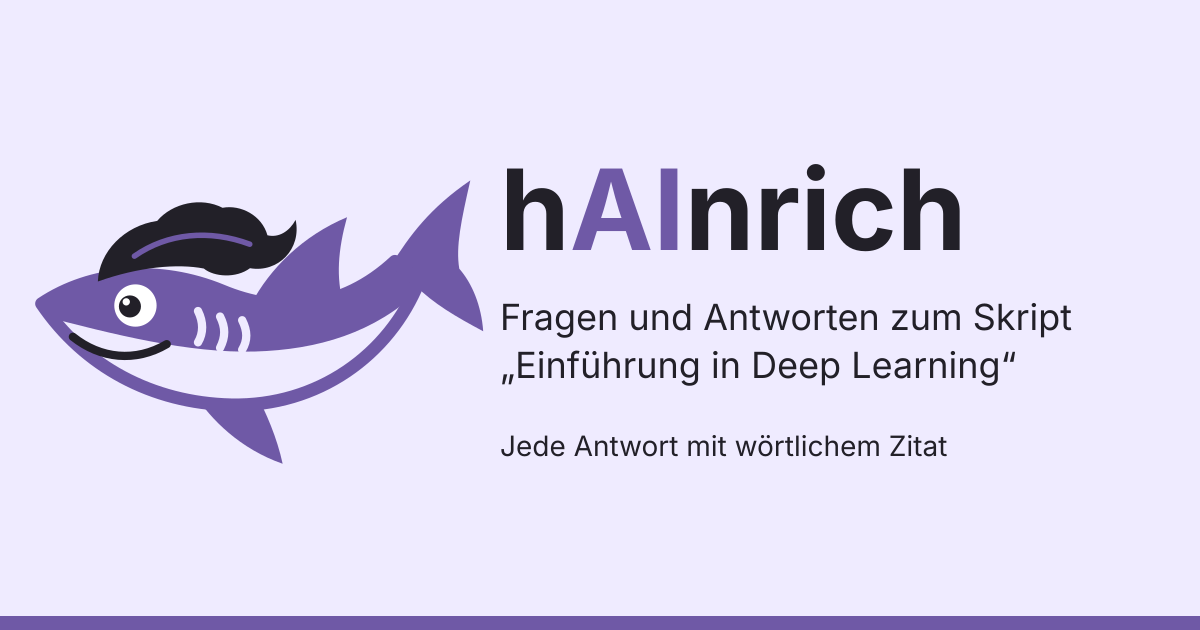
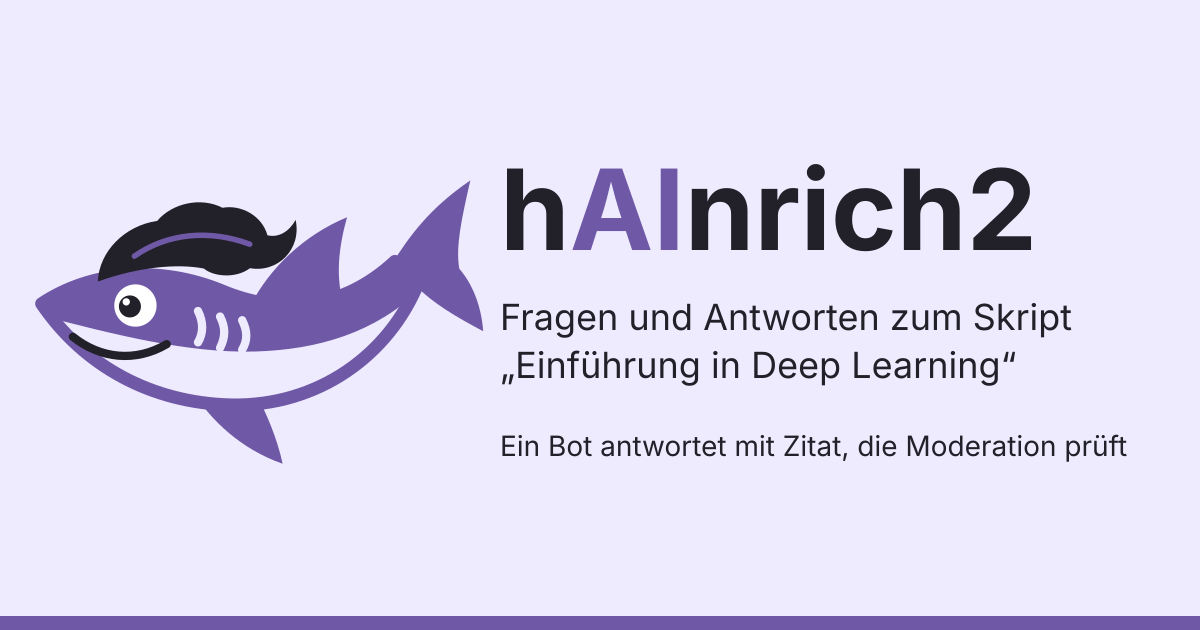
Strukturierte Daten und neue Vorschaukarte
Die Startseite trägt WebSite, Unterforen und Fragen tragen den sichtbaren Pfad als BreadcrumbList. `<` ist im JSON maskiert, weil ein `</script>` im Text den Block sonst beendet. QAPage bleibt weg: Google verlangt, dass Nutzer antworten können.

Die Vorschaukarte sagte „Jede Antwort mit wörtlichem Zitat“ und hAInrich. Antworten der Moderation haben kein Zitat, und die Site heißt hAInrich2. Die Beschreibung der Startseite ist ebenso vorsichtiger.

Die Testfragen bleiben, und die Vorschau endet noch nicht: Erst bekommen die Studierenden den Link (Konrad, 2026-11-06).

Changed region(s): [[0.4008, 0.6937, 0.9558, 0.7238], [0.8017, 0.2714, 0.8633, 0.4222]]

diff --git a/lib/site.js b/lib/site.js
@@ -10,12 +10,13 @@ import { quoteUrl } from './segment.js';
 export { esc };
 
 /** muss zur Datei passen, das prüft der Bau; erzeugt von tools/render_brand.py */
-export const OG_CARD = { file: 'og-card.png', width: 1200, height: 630, alt: 'Das Logo von hAInrich, ein fröhlicher Hai mit einem Toupet im Stil von Heinrich Heine. Daneben: Fragen und Antworten zum Skript „Einführung in Deep Learning“.' };
+export const OG_CARD = { file: 'og-card.png', width: 1200, height: 630, alt: 'Das Logo von hAInrich2, ein fröhlicher Hai mit einem Toupet im Stil von Heinrich Heine. Daneben: Fragen und Antworten zum Skript „Einführung in Deep Learning“.' };
 const NICHTS_GEFUNDEN = 'Dazu habe ich im Skript nichts gefunden.';
 const BADGES = { ungeprüft: 'ungeprüft', geprüft: 'geprüft', kein_beleg: 'kein Beleg', entwurf: 'Entwurf' };
 const reviewed = question => question.antworten.some(a => a.status === 'geprüft');
+const BETREIBER = { name: 'Konrad Völkel', url: 'https://www.konradvoelkel.com' };
 /** Wer für die Moderation unterschreibt. Solange es nur einen gibt, steht das hier und nicht am Konto (Plan D22) */
-export const MODERATION = { name: 'Konrad Völkel', bild: 'moderation-konrad.jpg', url: 'https://www.konradvoelkel.com' };
+export const MODERATION = { ...BETREIBER, bild: 'moderation-konrad.jpg' };
 /** Länge, ab der die Trefferliste abschneidet, grob */
 const TITEL_LAENGE = 65;
 const BESCHREIBUNG_LAENGE = 155;
@@ -72,7 +73,16 @@ export function publicQuestion(seed, row, passages, day) {
   return { id: seed.id, text: seed.frage, kapitel, herkunft: 'beispiel', tag: day, antworten };
 }
 
-function shell({ site, root, path, title, description, robots = 'noindex', body, script = null, claim = true }) {
+/** Für die Suche. `<` ist maskiert, sonst beendet ein `</script>` im Text den Block. Ausgeführt wird nichts, die CSP lässt das durch */
+const jsonLd = data => `<script type="application/ld+json">${JSON.stringify({ '@context': 'https://schema.org', ...data }).replaceAll('<', '\\u003c')}</script>\n`;
+
+/** Der sichtbare Pfad. Der letzte Schritt ist die Seite selbst, er braucht keine Adresse */
+const crumbs = (site, ...steps) => ({
+  '@type': 'BreadcrumbList',
+  itemListElement: [['', 'Forum'], ...steps].map(([href, name], i) => ({ '@type': 'ListItem', position: i + 1, name, ...(href === null ? {} : { item: `${site.origin}${site.base}${href}` }) })),
+});
+
+function shell({ site, root, path, title, description, robots = 'noindex', body, script = null, claim = true, daten = null }) {
   const url = `${site.origin}${site.base}${path}`;
   const banner = site.vorschau ? '<p class="vorschau">Vorschau, nicht veröffentlicht.</p>' : '';
   return `<!doctype html>
@@ -102,7 +112,7 @@ function shell({ site, root, path, title, description, robots = 'noindex', body,
 <link rel="apple-touch-icon" href="${root}apple-touch-icon.png">
 <link rel="stylesheet" href="${root}katex/katex.min.css">
 <link rel="stylesheet" href="${root}style.css">
-${script ? `<script type="module" src="${root}${script}"></script>\n` : ''}</head>
+${script ? `<script type="module" src="${root}${script}"></script>\n` : ''}${daten ? jsonLd(daten) : ''}</head>
 <body>
 ${banner}<header class="kopf"><a class="marke" href="${root || './'}"><img src="${root}logo.svg" alt="" width="36" height="36">hAInrich2</a>${claim ? `<span>${CLAIM}</span>` : ''}</header>
 <main>
@@ -173,6 +183,7 @@ export function questionPage(question, site) {
     description: questionDescription(question),
     robots: reviewed(question) ? 'index,follow' : 'noindex',
     script: site.stimmen ? 'stimmen.js' : null,
+    daten: crumbs(site, [`f/${forum.slug}/`, forum.titel], [null, question.kapitel]),
     body: `${trail(root, [`../${forum.slug}/`, forum.titel], [null, question.kapitel])}
 <article class="beitrag frage" id="b1"><aside class="autor"><span class="avatar" aria-hidden="true">?</span><strong>${question.herkunft === 'beispiel' ? 'Frage' : 'Anonymer Nutzer'}</strong>${voteBox(question, site)}</aside><div class="inhalt"><header><span class="meta">${dateOf(question.tag)}</span>${question.herkunft === 'beispiel' ? '<span class="badge">Beispielfrage</span>' : ''}<a class="nummer" href="#b1">#1</a></header><h1>${renderQuestion(question.text)}</h1><p class="meta">${esc(question.kapitel)}</p></div></article>
 ${question.antworten.map((a, i) => answerCard(a, i + 2, { root, tag: question.tag })).join('\n') || none}`,
@@ -189,15 +200,17 @@ export function indexPage(questions, site) {
     const threads = threadsOf(forum, questions);
     return `<tr><th scope="row"><a href="f/${forum.slug}/">${esc(forum.titel)}</a><p>${esc(forum.beschreibung)}</p></th><td data-label="Themen">${threads.length}</td><td data-label="Geprüft">${countReviewed(threads)}</td></tr>`;
   }).join('\n');
+  const description = 'Fragen zum Skript „Einführung in Deep Learning“. Antworten des Bots tragen das wörtliche Zitat aus dem Skript mit Link, die Moderation prüft sie.';
   return shell({
     site,
     root: '',
     path: '',
     title: 'hAInrich2: Fragen zum Skript „Einführung in Deep Learning“',
-    description: 'Fragen zum Skript „Einführung in Deep Learning“. Jede Antwort des Bots trägt das wörtliche Zitat aus dem Skript mit Link.',
+    description,
     robots: questions.some(reviewed) ? 'index,follow' : 'noindex',
     script: 'app.js',
     claim: false,
+    daten: { '@type': 'WebSite', name: 'hAInrich2', url: `${site.origin}${site.base}`, inLanguage: 'de', description, publisher: { '@type': 'Person', ...BETREIBER } },
     body: `<section class="einstieg"><h1>${CLAIM}</h1>
 <p>Die meisten Antworten schreibt ein Sprachmodell, belegt mit wörtlichen Zitaten aus dem Skript, und die Moderation prüft sie. <a href="ueber/">Mehr über die Idee</a></p></section>
 <section class="suche" id="suche" hidden>
@@ -227,6 +240,7 @@ export function forumPage(forum, questions, site) {
     description: `${forum.beschreibung} Fragen zum Skript „Einführung in Deep Learning“.`,
     robots: threads.some(reviewed) ? 'index,follow' : 'noindex',
     script: site.stimmen ? 'stimmen.js' : null,
+    daten: crumbs(site, [null, forum.titel]),
     body: `${trail(root, [null, forum.titel])}
 <section>${listTitle(site, root, forum.titel)}<p class="meta">${esc(forum.beschreibung)}</p>
 <table class="liste themen">

diff --git a/tools/render_brand.py b/tools/render_brand.py
@@ -102,21 +102,21 @@ def fit(text, font_file, size, limit):
 
 
 def card():
-    lines = [('hAI', 'nrich', 112, TEXT_X, 250), ('Fragen und Antworten zum Skript', None, 36, TEXT_X, 330),
-             ('„Einführung in Deep Learning“', None, 36, TEXT_X, 378), ('Jede Antwort mit wörtlichem Zitat', None, 28, TEXT_X, 456)]
+    lines = [('hAI', 'nrich2', 112, TEXT_X, 250), ('Fragen und Antworten zum Skript', None, 36, TEXT_X, 330),
+             ('„Einführung in Deep Learning“', None, 36, TEXT_X, 378), ('Ein Bot antwortet mit Zitat, die Moderation prüft', None, 28, TEXT_X, 456)]
     limit = TEXT_RIGHT - TEXT_X
-    fit('hAInrich', FONT_BOLD, 112, limit)
+    fit('hAInrich2', FONT_BOLD, 112, limit)
     for text, _, size, _, _ in lines[1:]:
         fit(text, FONT_REGULAR, size, limit)
     style = 'font-family:Inter'
     title = (f'<text x="{TEXT_X}" y="250" style="{style};font-weight:700;font-size:112px" fill="{TINTE}">'
-             f'h<tspan fill="{MARKE}">AI</tspan>nrich</text>')
+             f'h<tspan fill="{MARKE}">AI</tspan>nrich2</text>')
     rows = '\n'.join(f'<text x="{x}" y="{y}" style="{style};font-size:{size}px" fill="{TINTE}">{text}</text>' for text, _, size, x, y in lines[1:])
     return svg(f'''<rect width="{CARD_W}" height="{CARD_H}" fill="{FLAECHE}"/>
 <rect x="0" y="{CARD_H - 14}" width="{CARD_W}" height="14" fill="{MARKE}"/>
 <g transform="translate(14 70) scale(.92)">{mark()}</g>
 {title}
-{rows}''', CARD_W, CARD_H, 'hAInrich: Fragen und Antworten zum Skript')
+{rows}''', CARD_W, CARD_H, 'hAInrich2: Fragen und Antworten zum Skript')
 
 
 def wordmark():

diff --git a/research/2026-11-06-seo-audit/README.md b/research/2026-11-06-seo-audit/README.md
@@ -5,8 +5,8 @@ _Stand 2026-11-06, gemessen am ausgespielten Stand `2d085af`. Skripte: `crawl.py
 
 **Ergebnis:** Die Site ist heute für Suchmaschinen unsichtbar, und das ist gewollt: `noindex` auf allen 41 Seiten, leere Sitemap.
 Für das Ende der Vorschau ist sie technisch gut vorbereitet. Schwach sind Titel, Beschreibungen und strukturierte Daten.
-Die Startbereitschaft lag bei **68 von 100**. Das ist eine Einschätzung, keine Messung. Die Befunde 3, 4, 5 und 8 sind seit dem 2026-11-06
-behoben und live; „Auf der Seite“ steigt damit auf rund 80, die Summe auf rund 73.
+Die Startbereitschaft lag bei **68 von 100**. Das ist eine Einschätzung, keine Messung. Die Befunde 3, 4, 5, 7 (ohne `QAPage`), 8 und 9 sind seit dem
+2026-11-06 live. Damit steigt die Summe auf rund 77: „Auf der Seite“ 80, „Strukturierte Daten“ 50, „Bilder“ 95.
 
 **Grenzen:** Keine Daten von Google, keine Rankings, kein Suchvolumen, keine Backlinks, keine Felddaten zu Core Web Vitals. Search
 Console ist nicht eingerichtet und kann ohne Indexierung wenig liefern. Die PageSpeed-API von Google habe ich nicht benutzt,
@@ -83,8 +83,8 @@ hAInrich2.“. _Prüfen:_ Ein Bau mit `--release` trägt beide Seiten in die Sit
 
 ### Mittel
 
-**7. Keine strukturierten Daten.** `WebSite` auf der Startseite und `BreadcrumbList` auf Unterforen und Fragen passen sofort, die Brotkrumen stehen
-schon sichtbar auf der Seite.
+**7. Zum Teil behoben: Keine strukturierten Daten.** `WebSite` auf der Startseite und `BreadcrumbList` auf Unterforen und Fragen sind live, die Brotkrumen
+folgen dem sichtbaren Pfad. Von Googles Prüfwerkzeug ist das nicht bestätigt, die Site ist `noindex` und der Name soll nicht in weitere Dienste.
 
 `QAPage` passt nur bedingt. Google verlangt: „Users must be able to submit answers to the question.“ Bei uns antworten nur Bot und Moderation.
 Ausgenommen sind laut Google Bildungsseiten mit Hausaufgabenfragen und einer Antwort von Fachleuten; ob das hier zutrifft, ist Auslegung.
@@ -94,10 +94,10 @@ auf Namen. Falls `QAPage` kommt, gehört `digitalSourceType` an die Bot-Antworte
 **8. Behoben: Die Startseite sagt wenig.** Die H1 heißt „Forum“, die Seite hat 150 Wörter. Der Skriptname steht nur in einer Kopfzeile ohne Überschrift.
 Eine H1 mit dem Skriptnamen und zwei Sätze mit Link auf „Über hAInrich2“ reichen.
 
-**9. Die OG-Karte ist veraltet.** Sie sagt „Jede Antwort mit wörtlichem Zitat“, Antworten der Moderation haben aber keines. Außerdem steht dort „hAInrich“,
+**9. Behoben: Die OG-Karte ist veraltet.** Sie sagt „Jede Antwort mit wörtlichem Zitat“, Antworten der Moderation haben aber keines. Außerdem steht dort „hAInrich“,
 die Site heißt hAInrich2 (`tools/render_brand.py:105`). Die Karte erscheint, wenn jemand den Link teilt, also auch in Chats des Kurses.
 
-**10. Die beiden Testfragen sind öffentlich.** `bf8ec38f9c86` und `0cfd2b864eda`. Das ist Konrads Entscheidung, aber vor dem Ende der Vorschau nötig.
+**10. Entschieden: Die beiden Testfragen bleiben.** `bf8ec38f9c86` und `0cfd2b864eda` (Konrad, 2026-11-06).
 
 ### Niedrig
 
@@ -111,12 +111,12 @@ die Site heißt hAInrich2 (`tools/render_brand.py:105`). Die Karte erscheint, we
 
 ## Reihenfolge
 
-Abhängigkeiten: 10 vor dem Ende der Vorschau. 3, 4 und 5 sind unabhängig und wirken erst danach, kosten aber wenig.
+Die Vorschau bleibt vorerst: Konrad gibt den Link zuerst den Studierenden (2026-11-06). Alles für die Suche wirkt also erst später.
 
-1. **Sofort, Konrad:** Befund 10 entscheiden.
+1. **Erledigt:** Befund 10 ist entschieden.
 2. **Kleiner Umbau, ohne Server-Repo:** Befunde 3, 4, 5 und 8 sind erledigt.
-3. **Mit Server-Repo:** Befund 2. Mit Inkscape: Befund 9.
-4. **Vor dem Start:** Schalter für das Ende der Vorschau, dann Befund 7.
+3. **Mit Server-Repo:** Befund 2. Dazu Befund 6 im Skript klären.
+4. **Vor dem Start:** Schalter für das Ende der Vorschau, dann die Entscheidung zu `QAPage`.
 5. **Nach dem Start:** Search Console einrichten, nach vier Wochen ansehen, welche Fragen Eindrücke bekommen, und erst dann über Kurztitel
    oder Adressen nachdenken.
 

diff --git a/STATUS.md b/STATUS.md
@@ -18,7 +18,7 @@ _Stand 2026-11-05._
   Kostenbuch mit Deckel, Review-Seite.
 - `site/`, `lib/site.js`, `lib/rank.js`, `smoke/`: die Lese-Site, lokal gebaut nach
   `/media/konrad/xtraspace/hainrich2/site/`. 39 Seiten, Suche im Browser, Impressum und
-  Datenschutz. 173 Unit-Tests, 15 Smoke-Tests und 21 Browser-Tests von Moderation, Fragepfad und Abstimmen grün (`npm test`, `npm run smoke`, `npm run smoke:mod`). Sie zeigt vorerst die
+  Datenschutz. 176 Unit-Tests, 16 Smoke-Tests und 21 Browser-Tests von Moderation, Fragepfad und Abstimmen grün (`npm test`, `npm run smoke`, `npm run smoke:mod`). Sie zeigt vorerst die
   Opus-Antworten als Platzhalter, jede Seite trägt ein Vorschau-Banner.
 - Forum-Optik mit vier Unterforen (`lib/forum.js`): Startseite, `f/<unterforum>/` und Beiträge mit Autorenspalte, seit 2026-11-05
   auf dem Server.
@@ -49,6 +49,7 @@ _Stand 2026-11-05._
   weiche Checker-Treffer. Rolle im Server-Repo erweitert (`d87bf31`) und ausgespielt. Rechtstexte: `site/texte/datenschutz-fragen.md`,
   `site/texte/nutzungsbedingungen.md`, live über `site/build.mjs --stimmen --fragen`. Jeder künftige Bau braucht beide Schalter. Ohne Kurscode-Hash im Vault bleibt der Pfad zu.
 
+- Strukturierte Daten (`WebSite`, `BreadcrumbList`) und neue OG-Karte: **seit 2026-11-06 live**, Smoke gegen den echten Host grün. `QAPage` bewusst nicht, dort müssten Nutzer antworten können.
 - Beiträge tragen Namen (Plan D22): Bot hAInrich2, „Anonymer Nutzer“, Konrad Völkel mit Foto und Link. Dazu kurze Titel, Beschreibungen aus der Antwort, H1 mit Skriptname, Über-Seite und Startseite in der Sitemap (`research/2026-11-06-seo-audit/`). **Seit 2026-11-06 live**, Smoke gegen den echten Host grün.
 - Seite „Über hAInrich2“ (`site/texte/ueber.md`), unten auf jeder Seite verlinkt: Herkunft des Namens, die Idee, FAQ-Wiki, Prototyp. **Seit 2026-11-05 live**, Smoke gegen den echten Host grün.
 - Unter den Suchtreffern steht seit 2026-11-05 „Diese Frage stellen“, auf dem echten Host geprüft: Der getippte Text kommt über `sessionStorage` ins Formular, nicht über die Adresse.
@@ -101,5 +102,5 @@ _Stand 2026-11-05._
 ## Nächster Schritt
 
 Konrad testet den Fragepfad auf dem echten Host. Daneben: Konrad hat am 2026-11-05 moderiert, 28 Antworten geprüft, s21 und s30 zurückgezogen, 14 Antworten bearbeitet. Als Nächstes ergänzt
-er das Skript (`research/2026-11-05-skriptluecken/`). Das Ende der Vorschau ist seine Entscheidung; erst dann wird Geprüftes
+er das Skript (`research/2026-11-05-skriptluecken/`). Das Ende der Vorschau ist seine Entscheidung, vorher bekommen die Studierenden den Link (2026-11-06); erst dann wird Geprüftes
 indexierbar. Der Blindvergleich hat keine Frist und entscheidet nur noch das Modell für neue Antworten.
